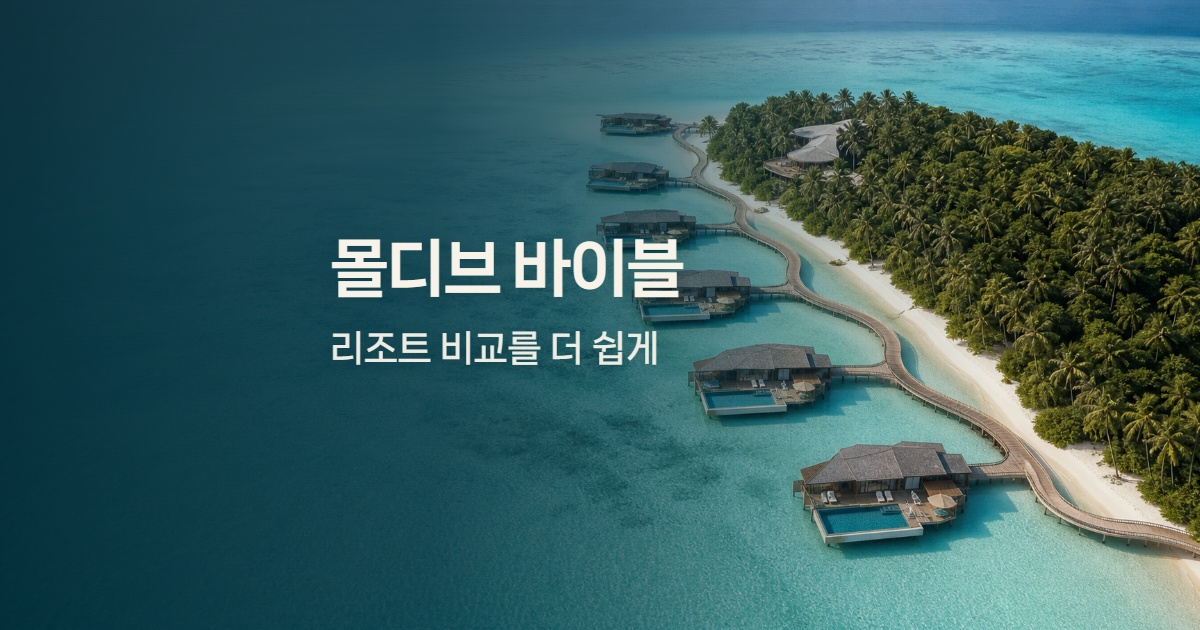
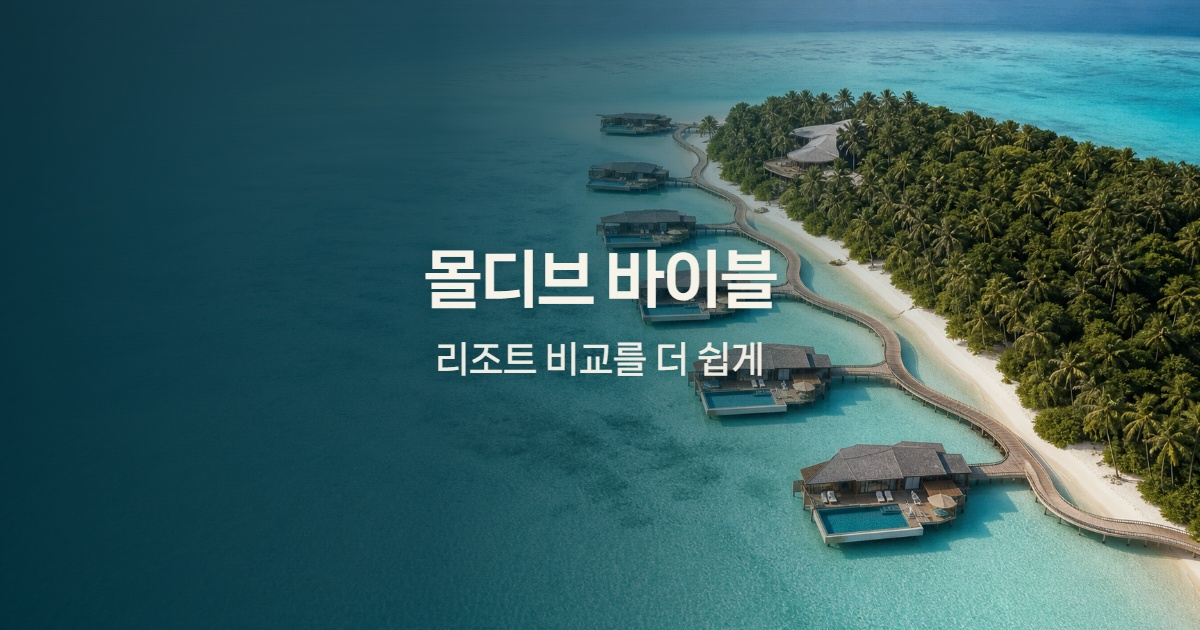
Center OG text lockup

Changed region(s): [[0.2775, 0.3619, 0.6475, 0.6032]]

diff --git a/index.html b/index.html
@@ -26,8 +26,8 @@
       property="og:description"
       content="예산·이동수단·객실 유형으로 찾고, 최대 3개 리조트를 나란히 비교하세요."
     />
-    <meta property="og:image" content="https://www.maldivesbible.com/og-image.jpg?v=20260711-13" />
-    <meta property="og:image:secure_url" content="https://www.maldivesbible.com/og-image.jpg?v=20260711-13" />
+    <meta property="og:image" content="https://www.maldivesbible.com/og-image.jpg?v=20260711-14" />
+    <meta property="og:image:secure_url" content="https://www.maldivesbible.com/og-image.jpg?v=20260711-14" />
     <meta property="og:image:type" content="image/jpeg" />
     <meta property="og:image:width" content="1200" />
     <meta property="og:image:height" content="630" />
@@ -40,7 +40,7 @@
       name="twitter:description"
       content="예산·이동수단·객실 유형으로 찾고, 최대 3개 리조트를 나란히 비교하세요."
     />
-    <meta name="twitter:image" content="https://www.maldivesbible.com/og-image.jpg?v=20260711-13" />
+    <meta name="twitter:image" content="https://www.maldivesbible.com/og-image.jpg?v=20260711-14" />
     <meta name="twitter:image:alt" content="몰디브 바이블, 리조트 비교를 더 쉽게 문구와 가상의 초호화 몰디브 프라이빗 아일랜드 리조트" />
     <script
       async
@@ -84,7 +84,7 @@
           "url": "https://www.maldivesbible.com/",
           "logo": "https://www.maldivesbible.com/brand/maldives-bible-logo.png"
         },
-        "image": "https://www.maldivesbible.com/og-image.jpg?v=20260711-13",
+        "image": "https://www.maldivesbible.com/og-image.jpg?v=20260711-14",
         "keywords": [
           "몰디브 신혼여행 처음 준비",
           "몰디브 리조트 선택 기준",

diff --git a/scripts/assets/og/open-design-og-template.html b/scripts/assets/og/open-design-og-template.html
@@ -114,11 +114,12 @@
 
       .lockup {
         position: absolute;
-        /* A centred 1:1 crop spans x=285–915 on the 1200 px canvas. */
-        top: 238px;
-        left: 330px;
+        top: 50%;
+        left: 50%;
         z-index: 1;
+        transform: translate(-50%, -50%);
         color: var(--ink);
+        text-align: center;
       }
 
       .wordmark {
@@ -140,6 +141,7 @@
         line-height: 1.25;
         letter-spacing: -0.01em;
         text-shadow: 0 2px 14px rgba(0, 25, 34, 0.16);
+        white-space: nowrap;
       }
     </style>
   </head>
